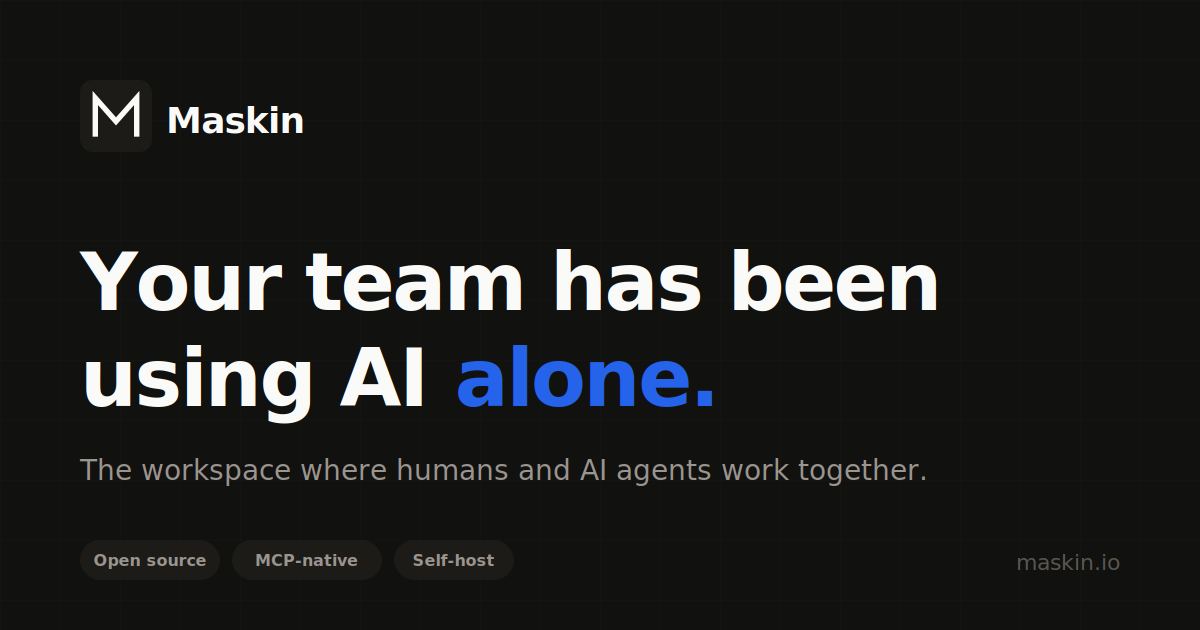
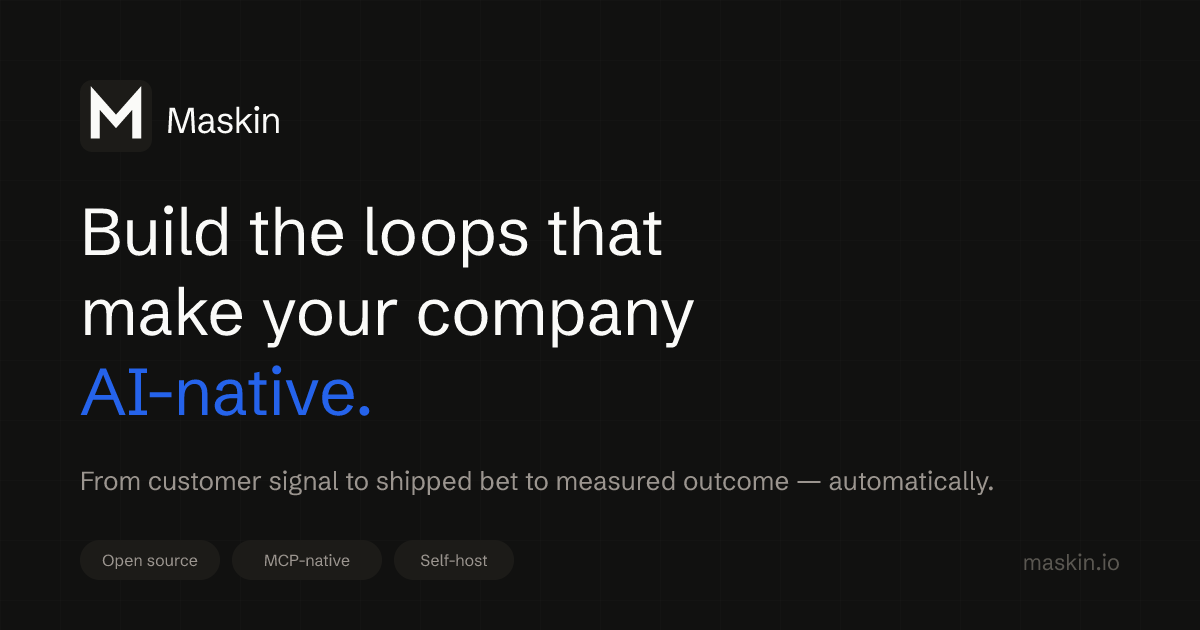
Re-letter OG image art and update docs positioning
OG card: re-letter from "using AI alone" to the tagline "Build the loops
that make your company AI-native" with the new subline, recolored accent,
and thicker logo mark; regenerate og-image.png at 1200x630 in the real
Schibsted Grotesk font so social previews match the site.

Docs: replace the old "agentic workspace where humans and AI agents work
together" elevator pitch with the loop / AI-native framing in the docs
landing + get-started meta and intros, llms.txt, and the llms-full.txt
header in scripts_gen_md.py; regenerate the .md mirrors and llms-full.txt.
The technical "workspace" object term is left untouched throughout.

Claude-Session: https://claude.ai/code/session_01BF4h6DEj7GaLu5hyLFZapB

diff --git a/docs/get-started/index.html b/docs/get-started/index.html
@@ -4,7 +4,7 @@
 <meta charset="UTF-8">
 <meta name="viewport" content="width=device-width, initial-scale=1.0">
 <title>Get started with Maskin — Docs</title>
-<meta name="description" content="What Maskin is — the open-source workspace where humans and AI agents work together — and the two ways to run it: managed hosting or self-hosted.">
+<meta name="description" content="What Maskin is — the open-source, MCP-native system where humans and AI agents close the loop together — and the two ways to run it: managed hosting or self-hosted.">
 
 <link rel="canonical" href="https://maskin.io/docs/get-started/">
 
@@ -18,7 +18,7 @@
 <meta property="og:type" content="article">
 <meta property="og:url" content="https://maskin.io/docs/get-started/">
 <meta property="og:title" content="Get started with Maskin">
-<meta property="og:description" content="The open-source workspace where humans and AI agents work together with shared memory, context, and process. Self-host or managed.">
+<meta property="og:description" content="The open-source, MCP-native system where humans and AI agents close the loop together — from signal to shipped bet to measured outcome. Self-host or managed.">
 <meta property="og:image" content="https://maskin.io/og-image.png">
 <meta property="og:site_name" content="Maskin">
 
@@ -35,7 +35,7 @@
       "@type": "TechArticle",
       "headline": "Get started with Maskin",
       "name": "Get started with Maskin",
-      "description": "What Maskin is — the open-source workspace where humans and AI agents work together — and the two ways to run it: managed hosting or self-hosted.",
+      "description": "What Maskin is — the open-source, MCP-native system where humans and AI agents close the loop together — and the two ways to run it: managed hosting or self-hosted.",
       "inLanguage": "en",
       "url": "https://maskin.io/docs/get-started/",
       "isPartOf": "https://maskin.io/docs/",
@@ -79,7 +79,7 @@
 
     <p class="eyebrow">Documentation</p>
     <h1>Get started with Maskin</h1>
-    <p class="lead">Maskin is an open-source workspace where your whole team — humans <em>and</em> AI agents — works together with shared memory, context, and process.</p>
+    <p class="lead">Maskin is an open-source, MCP-native system where your whole team — humans <em>and</em> AI agents — closes the loop together, from customer signal to shipped bet to measured outcome, with shared memory and a real process.</p>
 
     <p>Most AI tools are built for one person in one chat window. Maskin is built for a team: a shared place where people and agents see the same objects, follow the same process, and build on the same context over time. It's <strong>MCP-native</strong>, so you can drive a workspace directly from inside Claude Code or Claude Desktop.</p>
 

diff --git a/docs/index.html b/docs/index.html
@@ -4,7 +4,7 @@
 <meta charset="UTF-8">
 <meta name="viewport" content="width=device-width, initial-scale=1.0">
 <title>Docs — Maskin</title>
-<meta name="description" content="Maskin documentation. Get started with Maskin — the open-source workspace where humans and AI agents work together — learn the core concepts, the MCP tools, and how to self-host.">
+<meta name="description" content="Maskin documentation. Get started with Maskin — the open-source, MCP-native system where humans and AI agents close the loop together — learn the core concepts, the MCP tools, and how to self-host.">
 
 <link rel="canonical" href="https://maskin.io/docs/">
 
@@ -18,7 +18,7 @@
 <meta property="og:type" content="website">
 <meta property="og:url" content="https://maskin.io/docs/">
 <meta property="og:title" content="Docs — Maskin">
-<meta property="og:description" content="Get started with Maskin — the open-source workspace where humans and AI agents work together. Self-host or managed.">
+<meta property="og:description" content="Get started with Maskin — the open-source system where humans and AI agents close the loop together, from signal to shipped bet. Self-host or managed.">
 <meta property="og:image" content="https://maskin.io/og-image.png">
 <meta property="og:site_name" content="Maskin">
 
@@ -35,7 +35,7 @@
       "@type": "CollectionPage",
       "headline": "Docs",
       "name": "Docs",
-      "description": "Maskin documentation. Get started with Maskin — the open-source workspace where humans and AI agents work together — learn the core concepts, the MCP tools, and how to self-host.",
+      "description": "Maskin documentation. Get started with Maskin — the open-source, MCP-native system where humans and AI agents close the loop together — learn the core concepts, the MCP tools, and how to self-host.",
       "inLanguage": "en",
       "url": "https://maskin.io/docs/",
       "isPartOf": "https://maskin.io/docs/",
@@ -71,7 +71,7 @@
   <main class="doc-content">
     <p class="eyebrow">Documentation</p>
     <h1>Maskin docs</h1>
-    <p class="lead">Maskin is the open-source workspace where your whole team — humans <em>and</em> AI agents — works together with shared memory, context, and process.</p>
+    <p class="lead">Maskin is the open-source, MCP-native system where your whole team — humans <em>and</em> AI agents — closes the loop together, from customer signal to shipped bet to measured outcome, with shared memory and a real process.</p>
     <p>New here? Start with the overview, then dig into the concepts, the MCP tools, or how to run your own instance.</p>
 
     <div class="doc-cards">

diff --git a/scripts_gen_md.py b/scripts_gen_md.py
@@ -152,7 +152,7 @@ for path in glob.glob("docs/**/index.html", recursive=True):
 
 # assemble llms-full.txt in IA order
 parts=["# Maskin — full documentation\n",
-"> The open-source, MCP-native agentic workspace where humans and AI agents work together. This file concatenates all Maskin documentation for full-context ingestion by LLMs. Canonical site: https://maskin.io/  ·  Source: https://github.com/sindre-ai/maskin\n"]
+"> The open-source, MCP-native system where humans and AI agents close the loop together — from customer signal to shipped bet to measured outcome. This file concatenates all Maskin documentation for full-context ingestion by LLMs. Canonical site: https://maskin.io/  ·  Source: https://github.com/sindre-ai/maskin\n"]
 for path in ORDER:
     mp=md_path(path)
     if os.path.exists(mp):

diff --git a/docs/get-started.md b/docs/get-started.md
@@ -1,7 +1,7 @@
 > Source: https://maskin.io/docs/get-started/
 
 # Get started with Maskin
-Maskin is an open-source workspace where your whole team — humans *and* AI agents — works together with shared memory, context, and process.
+Maskin is an open-source, MCP-native system where your whole team — humans *and* AI agents — closes the loop together, from customer signal to shipped bet to measured outcome, with shared memory and a real process.
 Most AI tools are built for one person in one chat window. Maskin is built for a team: a shared place where people and agents see the same objects, follow the same process, and build on the same context over time. It's **MCP-native**, so you can drive a workspace directly from inside Claude Code or Claude Desktop.
 
 ## The unified pipeline